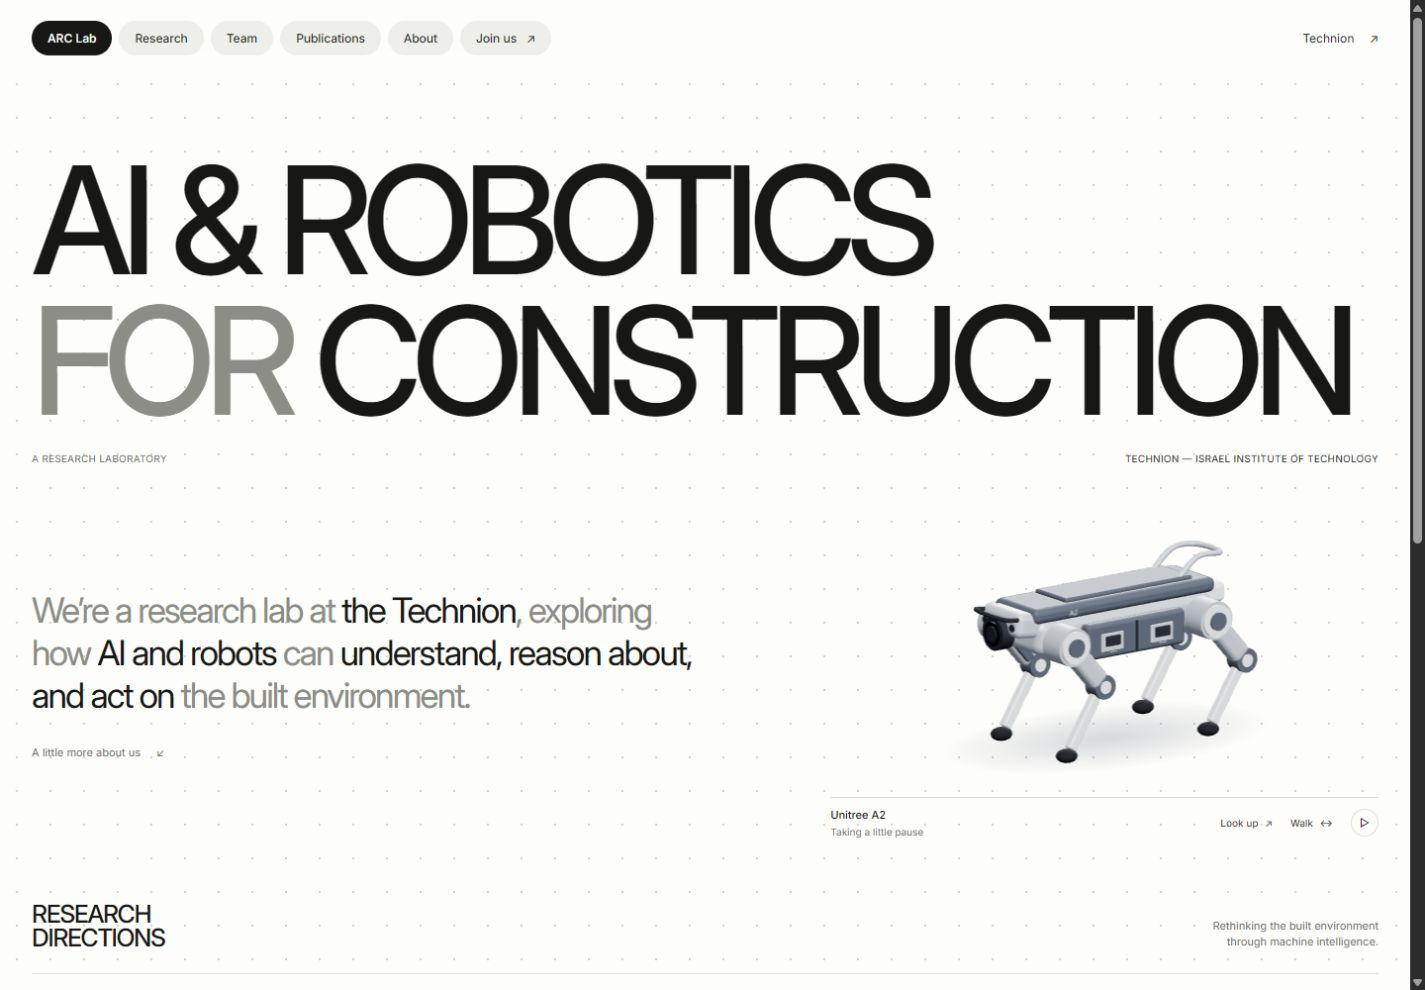
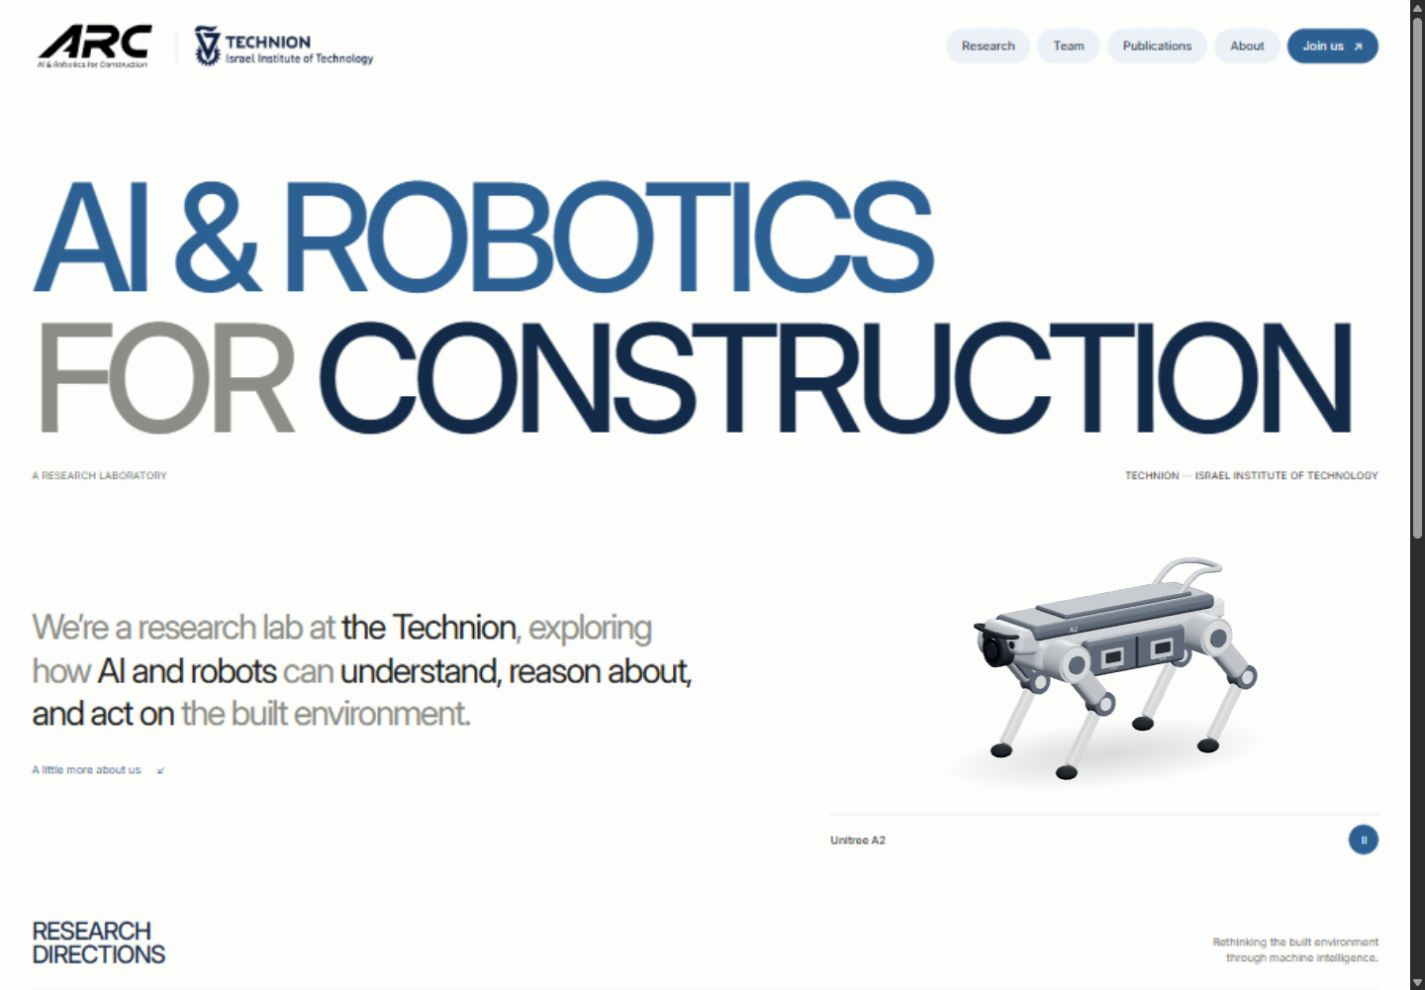
prototype: add blue branding and a stationary A2 gaze

diff --git a/prototype-minimal.css b/prototype-minimal.css
@@ -6,27 +6,31 @@
   font-display: swap;
 }
 
-:root { --paper: #fdfdfb; --ink: #171816; --gray: #8b8d86; --secondary: #6d7069; --line: #dedfd9; --pill: #eeefea; }
+:root { --paper: #fdfdfb; --ink: #171816; --blue: #1f5f91; --navy: #0c2947; --gray: #8b8d86; --secondary: #6d7069; --line: #dce5ec; --pill: #eaf1f7; }
 * { box-sizing: border-box; }
 html { scroll-behavior: smooth; scroll-padding-top: 32px; }
 body { margin: 0; color: var(--ink); background: var(--paper); background-image: radial-gradient(#d3d5cc .9px, transparent .9px); background-size: 34px 34px; font-family: Inter, Arial, sans-serif; -webkit-font-smoothing: antialiased; }
 a { color: inherit; text-decoration: none; }
 button { color: inherit; font: inherit; cursor: pointer; }
-a:focus-visible, button:focus-visible, summary:focus-visible { outline: 2px solid var(--ink); outline-offset: 5px; }
+a:focus-visible, button:focus-visible, summary:focus-visible { outline: 2px solid var(--blue); outline-offset: 5px; }
 button, a { -webkit-tap-highlight-color: transparent; }
 .skip-link { position: fixed; z-index: 10; top: 12px; left: 12px; padding: 10px 16px; background: var(--ink); color: var(--paper); transform: translateY(-180%); }
 .skip-link:focus { transform: none; }
 .site-header { display: flex; align-items: center; gap: 7px; padding: 20px 32px; min-height: 76px; background: linear-gradient(var(--paper), var(--paper) 70%, transparent); }
-.site-header nav { display: flex; align-items: center; gap: 7px; }
-.pill { display: inline-flex; align-items: center; justify-content: center; gap: 10px; padding: 10px 16px; border-radius: 30px; background: var(--pill); font-size: 12px; font-weight: 450; white-space: nowrap; transition: background-color .2s, color .2s; }
-.pill:hover { background: var(--ink); color: var(--paper); }
-.lab-mark { background: #e6e8e1; font-weight: 550; }
-.institution-link { margin-inline-start: auto; font-size: 12px; white-space: nowrap; }
-.institution-link span { margin-left: 12px; }
+.site-header nav { display: flex; align-items: center; gap: 7px; margin-inline-start: auto; }
+.pill { display: inline-flex; align-items: center; justify-content: center; gap: 10px; padding: 10px 16px; border-radius: 30px; background: var(--pill); color: var(--navy); font-size: 12px; font-weight: 450; white-space: nowrap; transition: background-color .2s, color .2s; }
+.pill:hover { background: var(--navy); color: var(--paper); }
+.join-link { background: var(--blue); color: var(--paper); }
+.brand-group { display: flex; align-items: center; gap: 18px; flex-shrink: 0; }
+.lab-mark { display: block; width: 128px; height: 53px; }
+.institution-link { display: block; width: 180px; height: 42px; }
+.lab-mark img, .institution-link img { display: block; width: 100%; height: 100%; object-fit: contain; }
+.brand-divider { width: 1px; height: 32px; background: var(--line); }
 main, footer { margin-inline: 32px; }
 .hero { padding-top: 75px; }
-h1 { margin: 0; font-size: clamp(56px, 10.5vw, 184px); font-weight: 480; line-height: .94; letter-spacing: -.073em; }
+h1 { margin: 0; color: var(--blue); font-size: clamp(56px, 10.5vw, 184px); font-weight: 480; line-height: .94; letter-spacing: -.073em; }
 .hero-line { display: block; white-space: nowrap; }
+.construction-line { color: var(--navy); }
 .quiet-word { color: var(--gray); }
 .hero-meta { display: flex; justify-content: space-between; gap: 24px; margin-top: 21px; font-size: 10px; line-height: 1.4; letter-spacing: .025em; text-transform: uppercase; }
 .hero-meta span:first-child { color: var(--secondary); }
@@ -34,7 +38,7 @@ h1 { margin: 0; font-size: clamp(56px, 10.5vw, 184px); font-weight: 480; line-he
 .manifesto { padding-block: 16px; }
 .manifesto p { max-width: 680px; margin: 0; font-size: clamp(26px, 2.45vw, 43px); font-weight: 420; line-height: 1.22; letter-spacing: -.052em; color: var(--gray); }
 .manifesto p span { color: var(--ink); }
-.text-link { display: inline-flex; align-items: center; gap: 16px; margin-top: 29px; font-size: 11px; color: var(--secondary); }
+.text-link { display: inline-flex; align-items: center; gap: 16px; margin-top: 29px; font-size: 11px; color: var(--blue); }
 .text-link:hover { color: var(--ink); }
 .robot-study { min-width: 0; margin: 0; }
 .a2-stage { height: clamp(245px, 20vw, 320px); position: relative; touch-action: pan-y; }
@@ -43,20 +47,15 @@ h1 { margin: 0; font-size: clamp(56px, 10.5vw, 184px); font-weight: 480; line-he
 .a2-stage.ready .robot-fallback { visibility: hidden; }
 .robot-caption { display: flex; align-items: center; justify-content: space-between; gap: 12px; padding-top: 10px; border-top: 1px solid var(--line); }
 .robot-name { display: block; font-size: 11px; font-weight: 500; }
-.robot-state { display: block; margin-top: 4px; color: var(--secondary); font-size: 10px; }
-.robot-controls { display: flex; align-items: center; gap: 18px; }
-.robot-controls button { background: none; border: 0; padding: 8px 0; font-size: 10px; white-space: nowrap; }
-.robot-controls button:hover { color: var(--secondary); }
-.robot-controls button span { margin-left: 4px; }
-.robot-controls .pause-button { display: grid; place-content: center; width: 28px; height: 28px; border: 1px solid var(--line); border-radius: 50%; font-size: 11px; padding: 0; }
-.pause-button span { margin-left: 0 !important; }
+.pause-button { display: grid; place-content: center; width: 30px; height: 30px; border: 1px solid var(--blue); border-radius: 50%; background: var(--blue); color: white; font-size: 11px; padding: 0; }
+.pause-button[aria-pressed="true"] { background: transparent; color: var(--blue); }
 .section-heading { display: flex; align-items: end; justify-content: space-between; gap: 30px; margin-bottom: 23px; }
-h2 { margin: 0; font-size: 25px; line-height: .95; font-weight: 500; letter-spacing: -.055em; }
+h2 { margin: 0; color: var(--navy); font-size: 25px; line-height: .95; font-weight: 500; letter-spacing: -.055em; }
 .section-heading p, .eyebrow { margin: 0; color: var(--secondary); font-size: 11px; line-height: 1.5; }
 .section-heading p { text-align: right; }
 .research-list { border-top: 1px solid var(--line); }
 .research-list a { display: grid; grid-template-columns: 9% minmax(0, 1fr) 30px; align-items: center; gap: 24px; padding-block: 28px; border-bottom: 1px solid var(--line); }
-.row-number { color: var(--secondary); font-size: 11px; font-variant-numeric: tabular-nums; }
+.row-number { color: var(--blue); font-size: 11px; font-variant-numeric: tabular-nums; }
 h3 { margin: 0; font-size: clamp(20px, 2vw, 31px); font-weight: 430; letter-spacing: -.045em; line-height: 1.2; }
 .row-arrow { justify-self: end; font-size: 26px; transition: transform .2s; }
 .research-list a:hover .row-arrow { transform: translate(3px, -3px); }
@@ -79,21 +78,27 @@ footer a { color: var(--ink); }
 @media (max-width: 1100px) { h1 { font-size: 10.25vw; } }
 @media (max-width: 1000px) {
   .site-header { padding-inline: 24px; }
+  .brand-group { gap: 14px; }
+  .lab-mark { width: 112px; height: 46px; }
+  .institution-link { width: 160px; height: 37px; }
   main, footer { margin-inline: 24px; }
   .pill { padding: 9px 12px; font-size: 11px; }
   .hero { padding-top: 64px; }
   .intro-grid { gap: 32px; grid-template-columns: 1.15fr 1fr; }
   .manifesto p { font-size: 29px; }
-  .robot-controls { gap: 12px; }
-  .robot-caption { flex-wrap: wrap; }
   .about-section { grid-template-columns: .8fr 1.6fr; }
+}
+@media (max-width: 900px) {
+  .site-header { flex-wrap: wrap; gap: 14px; }
+  .site-header nav { flex-basis: 100%; margin-inline-start: 0; }
 }
 @media (max-width: 680px) {
   .site-header { flex-wrap: wrap; padding: 16px 18px; gap: 12px; }
   .site-header nav { order: 3; width: 100%; gap: 5px; flex-wrap: wrap; }
-  .pill { padding: 9px 11px; font-size: 10px; }
-  .lab-mark { font-size: 12px; padding: 10px 15px; }
-  .institution-link { font-size: 11px; }
+  .pill { padding: 9px 8px; font-size: 10px; }
+  .brand-group { gap: 12px; }
+  .lab-mark { width: 100px; height: 42px; }
+  .institution-link { width: 154px; height: 36px; }
   main, footer { margin-inline: 18px; }
   .hero { padding-top: 48px; }
   h1 { font-size: 11.6vw; letter-spacing: -.075em; line-height: .97; }
@@ -105,8 +110,6 @@ footer a { color: var(--ink); }
   .manifesto p { max-width: 470px; font-size: 30px; }
   .text-link { margin-top: 22px; }
   .a2-stage { height: 270px; }
-  .robot-caption { flex-wrap: nowrap; }
-  .robot-controls { gap: 18px; }
   .section-heading { align-items: end; }
   h2 { font-size: 23px; }
   .section-heading p { font-size: 9px; max-width: 160px; }
@@ -119,8 +122,9 @@ footer a { color: var(--ink); }
   .about-copy > p { font-size: 27px; }
   footer { font-size: 9px; }
 }
-@media (max-width: 359px) { .site-header nav { gap: 3px; } .site-header nav .pill { padding-inline: 8px; } .robot-controls { gap: 12px; } }
+@media (max-width: 359px) { .site-header nav { gap: 3px; } .site-header nav .pill { padding-inline: 8px; } .brand-group { gap: 10px; } .lab-mark { width: 90px; height: 38px; } .institution-link { width: 140px; height: 32px; } }
 @media (min-width: 681px) and (max-height: 800px) {
+  .site-header { padding-block: 14px; }
   .hero { padding-top: 52px; }
   .intro-grid { padding-block: 28px 44px; }
   .a2-stage { height: 220px; }

diff --git a/prototype-a2.js b/prototype-a2.js
@@ -3,9 +3,7 @@ import * as THREE from './assets/prototypes/minimal/vendor/three.module.min.js';
 import { RoundedBoxGeometry } from './assets/prototypes/minimal/vendor/RoundedBoxGeometry.js';
 
 const stage = document.querySelector('#a2-stage');
-const status = document.querySelector('#robot-state');
 const pauseButton = document.querySelector('#pause-button');
-const reducedMotion = window.matchMedia('(prefers-reduced-motion: reduce)');
 const scene = new THREE.Scene();
 const camera = new THREE.OrthographicCamera(-3, 3, 1.55, -1.55, .1, 30);
 camera.position.set(-3.9, 2.65, 5.2);
@@ -86,9 +84,11 @@ const upperLength = .70;
 const lowerLength = .85;
 for (const x of [-.96, .96]) {
   for (const side of [-1, 1]) {
+    const mount = new THREE.Group();
+    mount.position.set(x, 0, side * .59);
+    body.add(mount);
     const hip = new THREE.Group();
-    hip.position.set(x, 0, side * .59);
-    body.add(hip);
+    mount.add(hip);
     cylinder(hip, .215, .30, [0, 0, 0], silver);
     cylinder(hip, .182, .025, [0, 0, side * .163], paleSilver);
     cylinder(hip, .102, .032, [0, 0, side * .181], graphite);
@@ -107,7 +107,7 @@ for (const x of [-.96, .96]) {
     const shoe = new THREE.Mesh(new THREE.SphereGeometry(1, 20, 12), rubber);
     shoe.scale.set(.123, .075, .112);
     foot.add(shoe);
-    legs.push({ hip, knee, foot, x, side, phase: (x < 0) === (side < 0) ? 0 : Math.PI });
+    legs.push({ mount, hip, knee, foot, x, side });
   }
 }
 
@@ -139,80 +139,60 @@ shadow.rotation.x = -Math.PI / 2;
 shadow.position.y = .002;
 scene.add(shadow);
 
-const ease = value => value * value * (3 - 2 * value);
 let elapsed = 0;
 let lastTime = 0;
 let lastDraw = 0;
-let playing = !reducedMotion.matches;
+let playing = true;
 let inView = true;
-let pointerX = 0;
-let pointerTarget = 0;
 const inverseBody = new THREE.Matrix4();
 const footTarget = new THREE.Vector3();
+const footLevel = new THREE.Quaternion();
+
+// Small glances with pauses; the robot stays planted instead of turning on a pedestal.
+const gazePoses = [
+  { at: 0, pitch: 0, roll: 0, yaw: 0 },
+  { at: 2, pitch: 0, roll: 0, yaw: 0 },
+  { at: 4, pitch: -.02, roll: -.065, yaw: -.14 },
+  { at: 6, pitch: -.02, roll: -.065, yaw: -.14 },
+  { at: 8, pitch: -.13, roll: -.025, yaw: -.05 },
+  { at: 10, pitch: -.13, roll: -.025, yaw: -.05 },
+  { at: 12.5, pitch: -.015, roll: .065, yaw: .14 },
+  { at: 14.5, pitch: -.015, roll: .065, yaw: .14 },
+  { at: 17, pitch: .075, roll: .025, yaw: .06 },
+  { at: 19, pitch: .075, roll: .025, yaw: .06 },
+  { at: 22, pitch: 0, roll: 0, yaw: 0 },
+];
 
 function pose(time) {
   const t = time % 22;
-  let x = 0;
-  let yaw = 0;
-  let walk = 0;
-  let look = t < 4 ? Math.sin(t / 4 * Math.PI) : 0;
-  let name = t < 4 ? 'Looking up' : 'Looking around';
-  if (t >= 4 && t < 7) {
-    const progress = (t - 4) / 3;
-    x = -.44 * ease(progress);
-    walk = Math.sin(progress * Math.PI);
-    name = 'A few steps to the left';
-  } else if (t >= 7 && t < 9) {
-    x = -.44;
-    yaw = Math.PI * ease(Math.max(0, t - 8));
-    look = Math.sin((t - 7) / 2 * Math.PI) * .55;
-  } else if (t >= 9 && t < 14) {
-    const progress = (t - 9) / 5;
-    x = -.44 + .88 * ease(progress);
-    yaw = Math.PI;
-    walk = Math.sin(progress * Math.PI);
-    name = 'A few steps to the right';
-  } else if (t >= 14 && t < 16) {
-    x = .44;
-    yaw = Math.PI + Math.PI * ease(Math.max(0, t - 15));
-    look = Math.sin((t - 14) / 2 * Math.PI) * .55;
-  } else if (t >= 16 && t < 19) {
-    const progress = (t - 16) / 3;
-    x = .44 * (1 - ease(progress));
-    yaw = Math.PI * 2;
-    walk = Math.sin(progress * Math.PI);
-    name = 'Heading back';
-  }
-  return { x, yaw, walk, look, name };
+  const next = gazePoses.findIndex(point => point.at > t);
+  const from = gazePoses[next - 1];
+  const to = gazePoses[next];
+  const blend = THREE.MathUtils.smootherstep(t, from.at, to.at);
+  return {
+    pitch: THREE.MathUtils.lerp(from.pitch, to.pitch, blend),
+    roll: THREE.MathUtils.lerp(from.roll, to.roll, blend),
+    yaw: THREE.MathUtils.lerp(from.yaw, to.yaw, blend),
+  };
 }
 
 function draw(time) {
   const state = pose(time);
-  pointerX += (pointerTarget - pointerX) * .06;
-  robot.position.x = state.x;
-  robot.rotation.y = state.yaw + Math.sin(time * .65) * .035 + pointerX * .12;
-  body.position.y = 1.32 + Math.sin(time * 1.8) * .009 + Math.sin(time * 12) * state.walk * .012;
-  body.rotation.z = -state.look * .13 + Math.sin(time * 1.4) * .007;
+  body.position.y = 1.32 + Math.sin(time * 1.5) * .005;
+  body.rotation.set(state.roll, state.yaw, state.pitch);
   body.updateMatrix();
   inverseBody.copy(body.matrix).invert();
   for (const leg of legs) {
-    const phase = time * 6.3 + leg.phase;
-    const step = Math.sin(phase) * .24 * state.walk;
-    const lift = Math.max(0, Math.cos(phase)) * .13 * state.walk;
-    footTarget.set(leg.x + step, .075 + lift, leg.side * .59).applyMatrix4(inverseBody).sub(leg.hip.position);
-    const cosine = (footTarget.x ** 2 + footTarget.y ** 2 - upperLength ** 2 - lowerLength ** 2) / (2 * upperLength * lowerLength);
+    footTarget.set(leg.x, .075, leg.side * .59).applyMatrix4(inverseBody).sub(leg.mount.position);
+    leg.mount.rotation.x = Math.atan2(-footTarget.z, -footTarget.y);
+    const vertical = -Math.hypot(footTarget.y, footTarget.z);
+    const cosine = (footTarget.x ** 2 + vertical ** 2 - upperLength ** 2 - lowerLength ** 2) / (2 * upperLength * lowerLength);
     const knee = -Math.acos(THREE.MathUtils.clamp(cosine, -1, 1));
-    const hip = Math.atan2(footTarget.x, -footTarget.y) - Math.atan2(lowerLength * Math.sin(knee), upperLength + lowerLength * Math.cos(knee));
+    const hip = Math.atan2(footTarget.x, -vertical) - Math.atan2(lowerLength * Math.sin(knee), upperLength + lowerLength * Math.cos(knee));
     leg.hip.rotation.z = hip;
     leg.knee.rotation.z = knee;
-    leg.foot.rotation.z = -hip - knee;
-  }
-  shadow.position.x = state.x;
-  shadow.rotation.z = -state.yaw;
-  const stateText = playing ? state.name : 'Taking a little pause';
-  if (status.textContent !== stateText) {
-    status.textContent = stateText;
-    stage.dataset.motion = playing ? state.name : 'Paused';
+    leg.knee.getWorldQuaternion(footLevel);
+    leg.foot.quaternion.copy(footLevel.invert());
   }
   renderer.render(scene, camera);
 }
@@ -235,14 +215,10 @@ function setPlaying(value) {
   pauseButton.setAttribute('aria-pressed', String(!playing));
   pauseButton.setAttribute('aria-label', playing ? 'Pause robot animation' : 'Play robot animation');
   pauseButton.firstElementChild.textContent = playing ? 'Ⅱ' : '▷';
+  stage.dataset.motion = playing ? 'playing' : 'paused';
   draw(elapsed);
 }
-document.querySelector('#look-button').addEventListener('click', () => { elapsed = 0; setPlaying(true); });
-document.querySelector('#walk-button').addEventListener('click', () => { elapsed = 4; setPlaying(true); });
 pauseButton.addEventListener('click', () => setPlaying(!playing));
-stage.addEventListener('pointermove', event => { const rect = stage.getBoundingClientRect(); pointerTarget = (event.clientX - rect.left) / rect.width - .5; });
-stage.addEventListener('pointerleave', () => { pointerTarget = 0; });
-reducedMotion.addEventListener('change', event => setPlaying(!event.matches));
 new ResizeObserver(resize).observe(stage);
 new IntersectionObserver(([entry]) => { inView = entry.isIntersecting; lastTime = 0; }).observe(stage);
 document.addEventListener('visibilitychange', () => { lastTime = 0; });

diff --git a/prototype-minimal.html b/prototype-minimal.html
@@ -13,15 +13,18 @@
   <body id="top">
     <a class="skip-link" href="#main">Skip to content</a>
     <header class="site-header">
-      <a class="lab-mark pill" href="#top" aria-label="ARC Lab home">ARC Lab</a>
+      <div class="brand-group">
+        <a class="lab-mark" href="#top" aria-label="ARC Lab home"><img src="assets/arc-logo.svg" alt="ARC Lab — AI and Robotics for Construction" /></a>
+        <span class="brand-divider" aria-hidden="true"></span>
+        <a class="institution-link" href="https://www.technion.ac.il/" target="_blank" rel="noreferrer"><img src="assets/technion-logo-official.png" alt="Technion — Israel Institute of Technology" /></a>
+      </div>
       <nav aria-label="Main navigation">
         <a class="pill" href="#research">Research</a>
         <a class="pill" href="people.html">Team</a>
         <a class="pill" href="publications.html">Publications</a>
         <a class="pill" href="#about">About</a>
-        <a class="pill" href="join-us.html">Join us <span aria-hidden="true">↗</span></a>
+        <a class="pill join-link" href="join-us.html">Join us <span aria-hidden="true">↗</span></a>
       </nav>
-      <a class="institution-link" href="https://www.technion.ac.il/" target="_blank" rel="noreferrer">Technion <span aria-hidden="true">↗</span></a>
     </header>
 
     <main id="main">
@@ -42,16 +45,12 @@
           </div>
 
           <figure class="robot-study">
-            <div class="a2-stage" id="a2-stage" role="img" aria-label="A silver Unitree A2 robot looks up, turns, and takes a few steps in each direction.">
+            <div class="a2-stage" id="a2-stage" role="img" aria-label="A silver Unitree A2 stands in place and gently looks left, right, up, and down.">
               <img class="robot-fallback" src="assets/robots/unitree-a2.png" alt="" aria-hidden="true" />
             </div>
             <figcaption class="robot-caption">
-              <div><span class="robot-name">Unitree A2</span><span class="robot-state" id="robot-state">Our four-legged labmate</span></div>
-              <div class="robot-controls" aria-label="Robot movements">
-                <button type="button" id="look-button">Look up <span aria-hidden="true">↗</span></button>
-                <button type="button" id="walk-button">Walk <span aria-hidden="true">↔</span></button>
-                <button class="pause-button" type="button" id="pause-button" aria-label="Pause robot animation" aria-pressed="false"><span aria-hidden="true">Ⅱ</span></button>
-              </div>
+              <span class="robot-name">Unitree A2</span>
+              <button class="pause-button" type="button" id="pause-button" aria-label="Pause robot animation" aria-pressed="false"><span aria-hidden="true">Ⅱ</span></button>
             </figcaption>
           </figure>
         </div>

diff --git a/html-docs/concepts/01-minimal/README.md b/html-docs/concepts/01-minimal/README.md
@@ -1,10 +1,10 @@
 # Concept 01 — Minimal / Motion
 
-**Status:** first prototype, awaiting user feedback. No design decision has been validated yet.
+**Status:** iteration 2, revised from user feedback and awaiting the next review.
 
 **Question:** does the reference's oversized typography and quiet, asymmetric composition work with the lab's name, a short manifesto on the left, and an animated Unitree A2 on the right?
 
-[Desktop first screen](desktop.jpg) · [Mobile first screen](mobile.jpg) · [Rightward walk](walking-right.jpg) · [Browser checks](qa.json)
+[Desktop first screen](desktop.jpg) · [Mobile first screen](mobile.jpg) · [Browser checks](qa.json)
 
 Open `/prototype-minimal.html` from a static server at the repository root. For example:
 
@@ -21,14 +21,18 @@ Then visit <http://127.0.0.1:8771/prototype-minimal.html>.
 - Put a short, basic manifesto / About introduction on the left.
 - Keep a fuller introduction lower down for this first pass; a separate About page remains an option.
 - Replace the right-hand expertise block with a minimalist animated Unitree A2 graphic.
-- Let the robot look up and take a few steps left and right, rather than showing a static photo.
+- Add blue to the visual theme and put the existing ARC and Technion logos at the top.
+- Keep the short manifesto as it is.
+- Keep the robot standing in place, looking left, right, up, and down with gentle tilts. Remove walking and the large rotations.
+- Show only “Unitree A2” under the robot; the user confirmed A2 after initially saying A3.
+- Remove the motion descriptions and Look up / Walk buttons. Keep one pause/play control and start playing automatically.
 - Explore this first option, iterate, and try other references as they arrive. This prototype contains one direction, following that request.
 
 ## What this pass explores
 
-Monochrome Inter typography, oversized lab-name lettering, a faint dot grid, gray-to-black emphasis, small pill navigation, a condensed manifesto, and an unboxed silver robot. Current research direction links form the next section. The existing full introduction is available further down the page.
+Blue and navy oversized lab-name lettering, a faint dot grid, pale blue pill navigation, the supplied ARC and Technion logos, the unchanged manifesto, and an unboxed silver robot. The current research direction links form the next section. The existing full introduction is available further down the page.
 
-The robot is a simplified procedural 3D illustration based on the A2 photo already in `assets/robots/unitree-a2.png`. It has articulated legs, a body tilt to look up, turns, short walks in both directions, and subtle pointer response. It is a visual study rather than a CAD model or a physical gait simulation. Look up, Walk, and Pause controls make the motions easy to compare. Reduced-motion preferences start with the robot paused.
+The robot is a simplified procedural 3D illustration based on the A2 photo already in `assets/robots/unitree-a2.png`. Its feet stay planted while its body makes small glances and tilts, with pauses between them. Leg joints compensate for the body's pitch, roll, and limited yaw. The entire robot no longer translates or spins. This remains a visual study rather than a CAD model or a physical simulation. A single animation loop plays by default, as explicitly requested, and can be paused and resumed.
 
 The original site pages, stylesheet, script, assets, and baseline record are untouched. This concept is isolated in `prototype-minimal.html`, `prototype-minimal.css`, `prototype-a2.js`, and `assets/prototypes/minimal/`. It has not been deployed or merged into main.
 
@@ -43,4 +47,6 @@ No package installation, build step, or runtime CDN request is required.
 
 ## Checks
 
-Rendered at 1440 × 1000, 1280 × 720, 768 × 1024, 390 × 844, and 320 × 800 CSS pixels. The headline and page fit at each width, and the 3D canvas and local font load. Look up, walk left, turn, walk right, and pause were exercised in the browser. Reduced-motion preferences start the robot paused. The full introduction expands and contains all four original research questions. No browser console errors were recorded.
+The headline, logos, and simplified controls fit at 1440 × 1000, 1280 × 720, 768 × 1024, 390 × 844, and 320 × 800 CSS pixels. Automatic playback was verified on a fresh load. Pausing produced a stable image, resuming produced changing animation frames, and no browser console errors were recorded. The manifesto matches the first iteration exactly, and all 19 local references resolve. Details are in [qa.json](qa.json).
+
+The first pass, including its walking animation, remains in commit `0da2355`; [walking-right.jpg](walking-right.jpg) is its historical motion capture.
